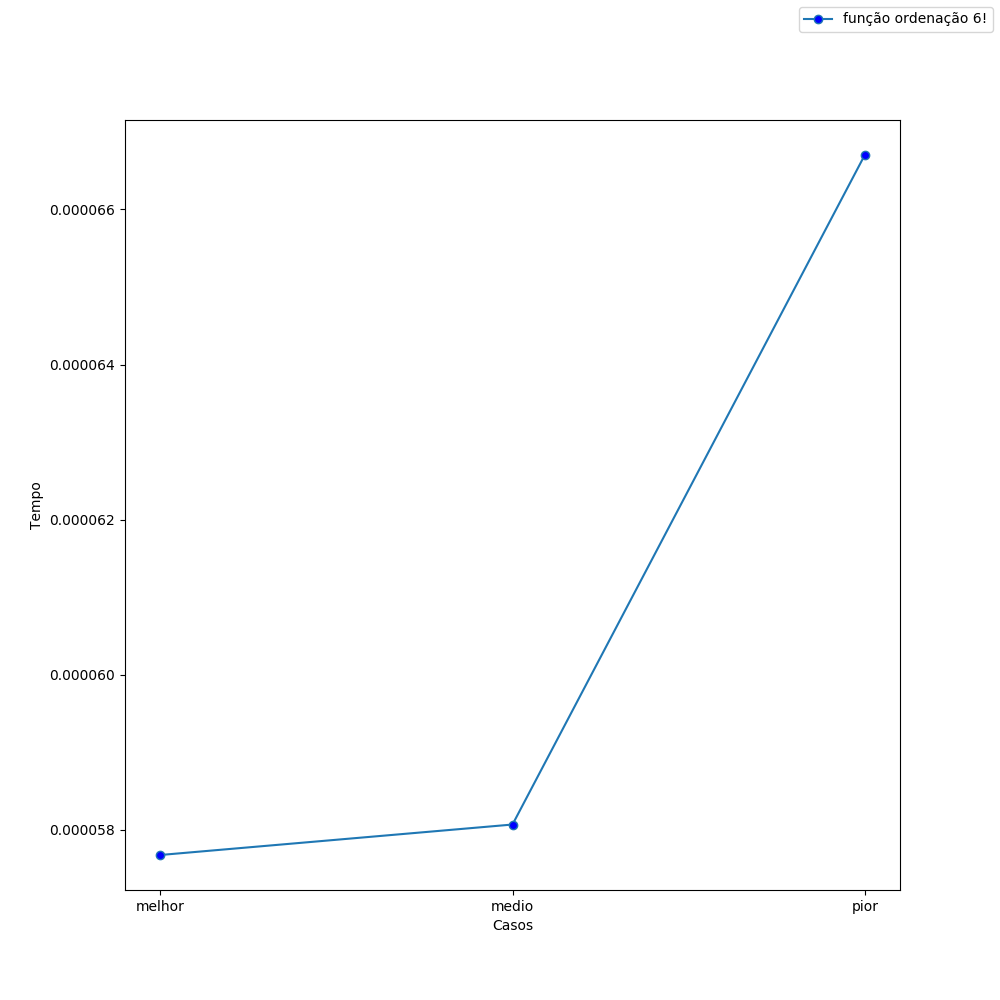
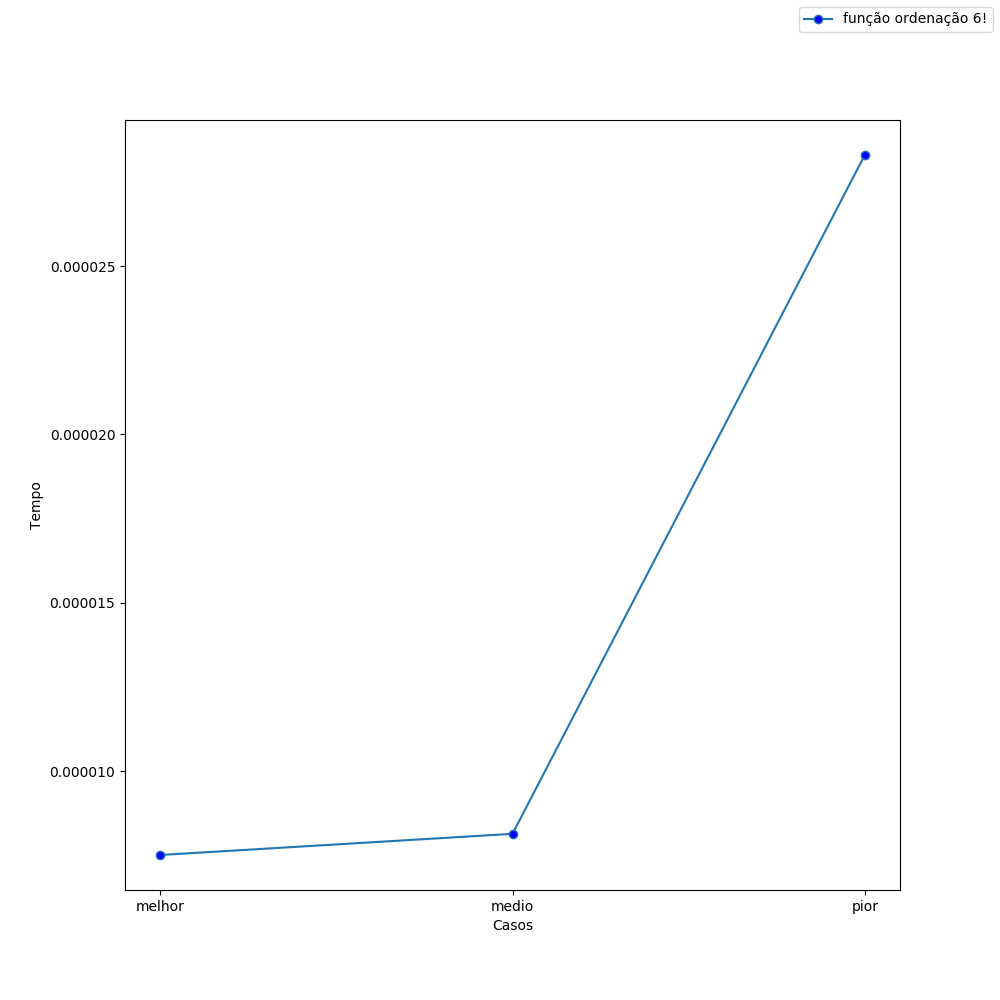
update

diff --git a/insertion_part2/main.py b/insertion_part2/main.py
@@ -5,13 +5,16 @@ import matplotlib as mpl
 mpl.use('Agg')
 import matplotlib.pyplot as plt
 
-def selectionSort(serie): # arg.: lista com as series a seres ordenadas
-	for i in range(len(serie)-1, 0, -1):
-		menor = 0
-		for j in range(1, i+1):
-			if(serie[j] > serie[menor]):
-				menor = j
-		serie[i], serie[menor] = serie[menor], serie[i] 
+def insertionSort(serie):
+	for i in range(1,len(serie)):
+		valor = serie[i]
+		indice = i
+
+		while indice>0 and serie[indice-1]>valor:
+			serie[indice]=serie[indice-1]
+			indice = indice-1
+
+		serie[indice]=valor
 	return serie
 
 def geraLista(tam): # lista de permutações com filtro de tupla
@@ -28,14 +31,16 @@ def tempListas(serie): # executa selection em cada caso
 	tempo = []
 	for i in range(0, len(serie)):
 		print(serie[i])
-		tempo.append(timeit.timeit("selectionSort({})".format(serie[i]),setup="from __main__ import selectionSort", number=1))
+		tempo.append(timeit.timeit("insertionSort({})".format(serie[i]),setup="from __main__ import insertionSort", number=1))
 	return tempo
 
 #######################################################
-########	INICIO DO PROGRAMA	###############
+###########   INICIO DO PROGRAMA   ###################
 #######################################################
 
 series = geraLista(6) # gera uma lista de series de tamanho 6 com todas as permutaçõess
 tempos = tempListas(series) # crio uma lista com tempo de ordenamento de cada permutação
-print ("O pior caso é a sequência: "+str(series[tempos.index(max(tempos))]))
-print ("O melhor caso é a sequência: "+str(series[tempos.index(min(tempos))]))
+print (tempos)
+print ("O pior caso foi a sequência: "+str(series[tempos.index(max(tempos))]))
+print ("O melhor caso foi a sequência: "+str(series[tempos.index(min(tempos))]))
+
